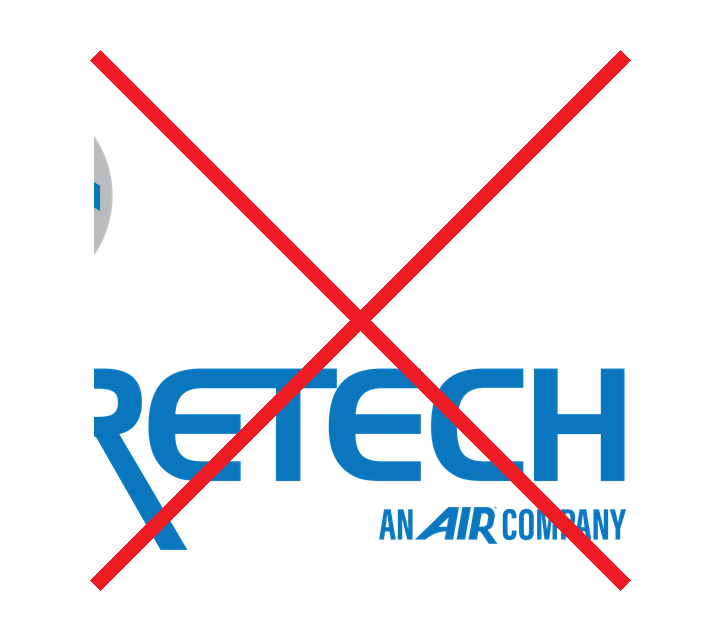
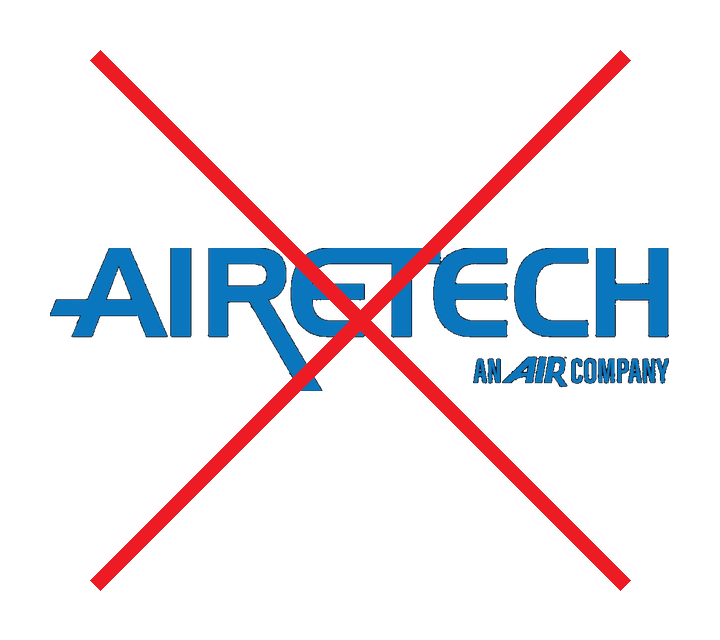
Hide symbol don'ts for select OpCos and add Airetech symbol art.
Remove Without Symbol and Symbol Only from Advanced Thermal Solutions, Bay Associates, C&J Building Solutions, and Insight Partners, and wire Airetech wordmark/symbol source files into generated don't examples.

Changed region(s): [[0.0611, 0.2188, 0.9472, 0.875], [0.5194, 0.7812, 0.8861, 0.8438]]

diff --git a/output/airetech/index.html b/output/airetech/index.html
@@ -435,37 +435,37 @@
       <div class="donts-grid">
                 <div class="dont-item">
           <div class="dont-label">Without AIR Tagline</div>
-          <div class="dont-art-frame"><img class="dont-art" src="assets/donts/01-without-air-tagline.png?v=202606181846" alt=""></div>
+          <div class="dont-art-frame"><img class="dont-art" src="assets/donts/01-without-air-tagline.png?v=202606181916" alt=""></div>
         </div>
 
         <div class="dont-item">
           <div class="dont-label">On an Angle</div>
-          <div class="dont-art-frame"><img class="dont-art" src="assets/donts/02-on-an-angle.png?v=202606181846" alt=""></div>
+          <div class="dont-art-frame"><img class="dont-art" src="assets/donts/02-on-an-angle.png?v=202606181916" alt=""></div>
         </div>
         <div class="dont-item">
           <div class="dont-label">Colors Changed</div>
-          <div class="dont-art-frame"><img class="dont-art" src="assets/donts/03-colors-changed.png?v=202606181846" alt=""></div>
+          <div class="dont-art-frame"><img class="dont-art" src="assets/donts/03-colors-changed.png?v=202606181916" alt=""></div>
         </div>
         <div class="dont-item">
           <div class="dont-label">Imperfect Scaling</div>
-          <div class="dont-art-frame"><img class="dont-art" src="assets/donts/04-imperfect-scaling.png?v=202606181846" alt=""></div>
+          <div class="dont-art-frame"><img class="dont-art" src="assets/donts/04-imperfect-scaling.png?v=202606181916" alt=""></div>
         </div>
         <div class="dont-item">
           <div class="dont-label">On Colored Background</div>
-          <div class="dont-art-frame"><img class="dont-art" src="assets/donts/05-on-colored-background.png?v=202606181846" alt=""></div>
+          <div class="dont-art-frame"><img class="dont-art" src="assets/donts/05-on-colored-background.png?v=202606181916" alt=""></div>
         </div>
                 <div class="dont-item">
           <div class="dont-label">Without Symbol</div>
-          <div class="dont-art-frame"><img class="dont-art" src="assets/donts/06-without-symbol.png?v=202606181846" alt=""></div>
+          <div class="dont-art-frame"><img class="dont-art" src="assets/donts/06-without-symbol.png?v=202606181916" alt=""></div>
         </div>
         <div class="dont-item">
           <div class="dont-label">Symbol Only</div>
-          <div class="dont-art-frame"><img class="dont-art" src="assets/donts/07-symbol-only.png?v=202606181846" alt=""></div>
+          <div class="dont-art-frame"><img class="dont-art" src="assets/donts/07-symbol-only.png?v=202606181916" alt=""></div>
         </div>
 
         <div class="dont-item">
           <div class="dont-label">Outlines</div>
-          <div class="dont-art-frame"><img class="dont-art" src="assets/donts/08-outlines.png?v=202606181846" alt=""></div>
+          <div class="dont-art-frame"><img class="dont-art" src="assets/donts/08-outlines.png?v=202606181916" alt=""></div>
         </div>
       </div>
     </div>

diff --git a/output/advanced-thermal-solutions/index.html b/output/advanced-thermal-solutions/index.html
@@ -435,37 +435,29 @@
       <div class="donts-grid">
                 <div class="dont-item">
           <div class="dont-label">Without AIR Tagline</div>
-          <div class="dont-art-frame"><img class="dont-art" src="assets/donts/01-without-air-tagline.png?v=202606181846" alt=""></div>
+          <div class="dont-art-frame"><img class="dont-art" src="assets/donts/01-without-air-tagline.png?v=202606181914" alt=""></div>
         </div>
 
         <div class="dont-item">
           <div class="dont-label">On an Angle</div>
-          <div class="dont-art-frame"><img class="dont-art" src="assets/donts/02-on-an-angle.png?v=202606181846" alt=""></div>
+          <div class="dont-art-frame"><img class="dont-art" src="assets/donts/02-on-an-angle.png?v=202606181914" alt=""></div>
         </div>
         <div class="dont-item">
           <div class="dont-label">Colors Changed</div>
-          <div class="dont-art-frame"><img class="dont-art" src="assets/donts/03-colors-changed.png?v=202606181846" alt=""></div>
+          <div class="dont-art-frame"><img class="dont-art" src="assets/donts/03-colors-changed.png?v=202606181914" alt=""></div>
         </div>
         <div class="dont-item">
           <div class="dont-label">Imperfect Scaling</div>
-          <div class="dont-art-frame"><img class="dont-art" src="assets/donts/04-imperfect-scaling.png?v=202606181846" alt=""></div>
+          <div class="dont-art-frame"><img class="dont-art" src="assets/donts/04-imperfect-scaling.png?v=202606181914" alt=""></div>
         </div>
         <div class="dont-item">
           <div class="dont-label">On Colored Background</div>
-          <div class="dont-art-frame"><img class="dont-art" src="assets/donts/05-on-colored-background.png?v=202606181846" alt=""></div>
+          <div class="dont-art-frame"><img class="dont-art" src="assets/donts/05-on-colored-background.png?v=202606181914" alt=""></div>
         </div>
-                <div class="dont-item">
-          <div class="dont-label">Without Symbol</div>
-          <div class="dont-art-frame"><img class="dont-art" src="assets/donts/06-without-symbol.png?v=202606181846" alt=""></div>
-        </div>
-        <div class="dont-item">
-          <div class="dont-label">Symbol Only</div>
-          <div class="dont-art-frame"><img class="dont-art" src="assets/donts/07-symbol-only.png?v=202606181846" alt=""></div>
-        </div>
-
+        
         <div class="dont-item">
           <div class="dont-label">Outlines</div>
-          <div class="dont-art-frame"><img class="dont-art" src="assets/donts/08-outlines.png?v=202606181846" alt=""></div>
+          <div class="dont-art-frame"><img class="dont-art" src="assets/donts/08-outlines.png?v=202606181914" alt=""></div>
         </div>
       </div>
     </div>

diff --git a/output/bay-associates/index.html b/output/bay-associates/index.html
@@ -435,37 +435,29 @@
       <div class="donts-grid">
                 <div class="dont-item">
           <div class="dont-label">Without AIR Tagline</div>
-          <div class="dont-art-frame"><img class="dont-art" src="assets/donts/01-without-air-tagline.png?v=202606181846" alt=""></div>
+          <div class="dont-art-frame"><img class="dont-art" src="assets/donts/01-without-air-tagline.png?v=202606181916" alt=""></div>
         </div>
 
         <div class="dont-item">
           <div class="dont-label">On an Angle</div>
-          <div class="dont-art-frame"><img class="dont-art" src="assets/donts/02-on-an-angle.png?v=202606181846" alt=""></div>
+          <div class="dont-art-frame"><img class="dont-art" src="assets/donts/02-on-an-angle.png?v=202606181916" alt=""></div>
         </div>
         <div class="dont-item">
           <div class="dont-label">Colors Changed</div>
-          <div class="dont-art-frame"><img class="dont-art" src="assets/donts/03-colors-changed.png?v=202606181846" alt=""></div>
+          <div class="dont-art-frame"><img class="dont-art" src="assets/donts/03-colors-changed.png?v=202606181916" alt=""></div>
         </div>
         <div class="dont-item">
           <div class="dont-label">Imperfect Scaling</div>
-          <div class="dont-art-frame"><img class="dont-art" src="assets/donts/04-imperfect-scaling.png?v=202606181846" alt=""></div>
+          <div class="dont-art-frame"><img class="dont-art" src="assets/donts/04-imperfect-scaling.png?v=202606181916" alt=""></div>
         </div>
         <div class="dont-item">
           <div class="dont-label">On Colored Background</div>
-          <div class="dont-art-frame"><img class="dont-art" src="assets/donts/05-on-colored-background.png?v=202606181846" alt=""></div>
+          <div class="dont-art-frame"><img class="dont-art" src="assets/donts/05-on-colored-background.png?v=202606181916" alt=""></div>
         </div>
-                <div class="dont-item">
-          <div class="dont-label">Without Symbol</div>
-          <div class="dont-art-frame"><img class="dont-art" src="assets/donts/06-without-symbol.png?v=202606181846" alt=""></div>
-        </div>
-        <div class="dont-item">
-          <div class="dont-label">Symbol Only</div>
-          <div class="dont-art-frame"><img class="dont-art" src="assets/donts/07-symbol-only.png?v=202606181846" alt=""></div>
-        </div>
-
+        
         <div class="dont-item">
           <div class="dont-label">Outlines</div>
-          <div class="dont-art-frame"><img class="dont-art" src="assets/donts/08-outlines.png?v=202606181846" alt=""></div>
+          <div class="dont-art-frame"><img class="dont-art" src="assets/donts/08-outlines.png?v=202606181916" alt=""></div>
         </div>
       </div>
     </div>

diff --git a/output/c-j-building-solutions/index.html b/output/c-j-building-solutions/index.html
@@ -435,37 +435,29 @@
       <div class="donts-grid">
                 <div class="dont-item">
           <div class="dont-label">Without AIR Tagline</div>
-          <div class="dont-art-frame"><img class="dont-art" src="assets/donts/01-without-air-tagline.png?v=202606181846" alt=""></div>
+          <div class="dont-art-frame"><img class="dont-art" src="assets/donts/01-without-air-tagline.png?v=202606181918" alt=""></div>
         </div>
 
         <div class="dont-item">
           <div class="dont-label">On an Angle</div>
-          <div class="dont-art-frame"><img class="dont-art" src="assets/donts/02-on-an-angle.png?v=202606181846" alt=""></div>
+          <div class="dont-art-frame"><img class="dont-art" src="assets/donts/02-on-an-angle.png?v=202606181918" alt=""></div>
         </div>
         <div class="dont-item">
           <div class="dont-label">Colors Changed</div>
-          <div class="dont-art-frame"><img class="dont-art" src="assets/donts/03-colors-changed.png?v=202606181846" alt=""></div>
+          <div class="dont-art-frame"><img class="dont-art" src="assets/donts/03-colors-changed.png?v=202606181918" alt=""></div>
         </div>
         <div class="dont-item">
           <div class="dont-label">Imperfect Scaling</div>
-          <div class="dont-art-frame"><img class="dont-art" src="assets/donts/04-imperfect-scaling.png?v=202606181846" alt=""></div>
+          <div class="dont-art-frame"><img class="dont-art" src="assets/donts/04-imperfect-scaling.png?v=202606181918" alt=""></div>
         </div>
         <div class="dont-item">
           <div class="dont-label">On Colored Background</div>
-          <div class="dont-art-frame"><img class="dont-art" src="assets/donts/05-on-colored-background.png?v=202606181846" alt=""></div>
+          <div class="dont-art-frame"><img class="dont-art" src="assets/donts/05-on-colored-background.png?v=202606181918" alt=""></div>
         </div>
-                <div class="dont-item">
-          <div class="dont-label">Without Symbol</div>
-          <div class="dont-art-frame"><img class="dont-art" src="assets/donts/06-without-symbol.png?v=202606181846" alt=""></div>
-        </div>
-        <div class="dont-item">
-          <div class="dont-label">Symbol Only</div>
-          <div class="dont-art-frame"><img class="dont-art" src="assets/donts/07-symbol-only.png?v=202606181846" alt=""></div>
-        </div>
-
+        
         <div class="dont-item">
           <div class="dont-label">Outlines</div>
-          <div class="dont-art-frame"><img class="dont-art" src="assets/donts/08-outlines.png?v=202606181846" alt=""></div>
+          <div class="dont-art-frame"><img class="dont-art" src="assets/donts/08-outlines.png?v=202606181918" alt=""></div>
         </div>
       </div>
     </div>

diff --git a/output/insight-partners/index.html b/output/insight-partners/index.html
@@ -435,37 +435,29 @@
       <div class="donts-grid">
                 <div class="dont-item">
           <div class="dont-label">Without AIR Tagline</div>
-          <div class="dont-art-frame"><img class="dont-art" src="assets/donts/01-without-air-tagline.png?v=202606181846" alt=""></div>
+          <div class="dont-art-frame"><img class="dont-art" src="assets/donts/01-without-air-tagline.png?v=202606181918" alt=""></div>
         </div>
 
         <div class="dont-item">
           <div class="dont-label">On an Angle</div>
-          <div class="dont-art-frame"><img class="dont-art" src="assets/donts/02-on-an-angle.png?v=202606181846" alt=""></div>
+          <div class="dont-art-frame"><img class="dont-art" src="assets/donts/02-on-an-angle.png?v=202606181918" alt=""></div>
         </div>
         <div class="dont-item">
           <div class="dont-label">Colors Changed</div>
-          <div class="dont-art-frame"><img class="dont-art" src="assets/donts/03-colors-changed.png?v=202606181846" alt=""></div>
+          <div class="dont-art-frame"><img class="dont-art" src="assets/donts/03-colors-changed.png?v=202606181918" alt=""></div>
         </div>
         <div class="dont-item">
           <div class="dont-label">Imperfect Scaling</div>
-          <div class="dont-art-frame"><img class="dont-art" src="assets/donts/04-imperfect-scaling.png?v=202606181846" alt=""></div>
+          <div class="dont-art-frame"><img class="dont-art" src="assets/donts/04-imperfect-scaling.png?v=202606181918" alt=""></div>
         </div>
         <div class="dont-item">
           <div class="dont-label">On Colored Background</div>
-          <div class="dont-art-frame"><img class="dont-art" src="assets/donts/05-on-colored-background.png?v=202606181846" alt=""></div>
+          <div class="dont-art-frame"><img class="dont-art" src="assets/donts/05-on-colored-background.png?v=202606181918" alt=""></div>
         </div>
-                <div class="dont-item">
-          <div class="dont-label">Without Symbol</div>
-          <div class="dont-art-frame"><img class="dont-art" src="assets/donts/06-without-symbol.png?v=202606181846" alt=""></div>
-        </div>
-        <div class="dont-item">
-          <div class="dont-label">Symbol Only</div>
-          <div class="dont-art-frame"><img class="dont-art" src="assets/donts/07-symbol-only.png?v=202606181846" alt=""></div>
-        </div>
-
+        
         <div class="dont-item">
           <div class="dont-label">Outlines</div>
-          <div class="dont-art-frame"><img class="dont-art" src="assets/donts/08-outlines.png?v=202606181846" alt=""></div>
+          <div class="dont-art-frame"><img class="dont-art" src="assets/donts/08-outlines.png?v=202606181918" alt=""></div>
         </div>
       </div>
     </div>
